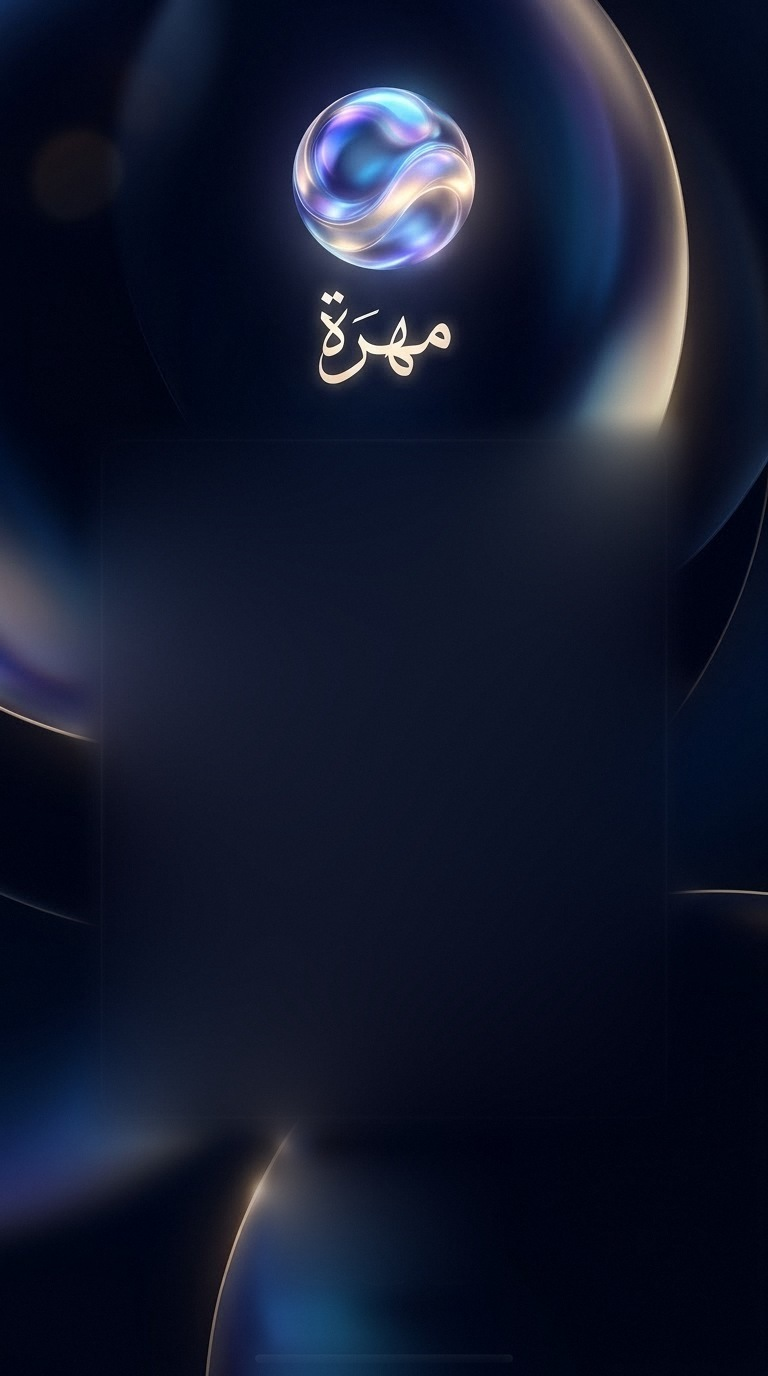
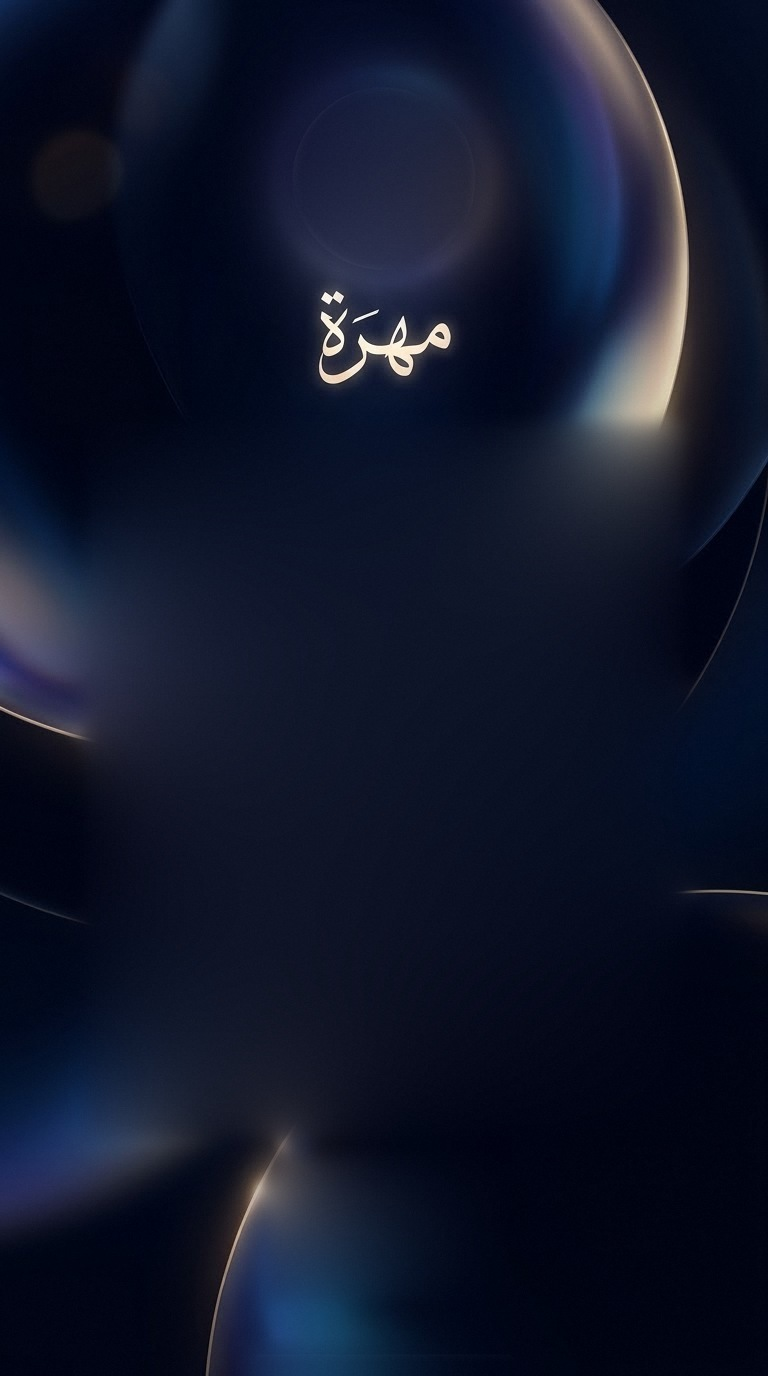
mahra customer login: spinning orb above the name, card lower, wide glowing pill buttons (fingerprint/Google/Apple)
Orb cut from the design image into its own transparent asset and erased from the background; reduced-motion respected.

Claude-Session: https://claude.ai/code/session_01TnTxrcnW4TWhmY2ibAxtsY

Changed region(s): [[0.375, 0.0625, 0.625, 0.2188]]

diff --git a/mahra/apps/customer/src/app/(auth)/login.tsx b/mahra/apps/customer/src/app/(auth)/login.tsx
@@ -1,8 +1,8 @@
 import { Ionicons } from '@expo/vector-icons';
 import * as LocalAuthentication from 'expo-local-authentication';
 import { LinearGradient } from 'expo-linear-gradient';
-import { useState } from 'react';
-import { Image, Platform, ScrollView, StyleSheet, TextInput, View, type LayoutChangeEvent } from 'react-native';
+import { useEffect, useState } from 'react';
+import { Animated, Easing, Image, Platform, ScrollView, StyleSheet, TextInput, View, type LayoutChangeEvent } from 'react-native';
 import { useSafeAreaInsets } from 'react-native-safe-area-context';
 import Svg, { Path } from 'react-native-svg';
 import { Glass } from '@/components/Glass';
@@ -11,6 +11,7 @@ import { Text } from '@/components/Text';
 import type { ComponentProps } from 'react';
 import { LANGS, useI18n } from '@/i18n';
 import { useAuth } from '@/lib/auth';
+import { useReducedMotion } from '@/lib/voice';
 import { fontStyle } from '@/theme/fonts';
 import { color, radius, space } from '@/theme/tokens';
 
@@ -18,11 +19,46 @@ import { color, radius, space } from '@/theme/tokens';
 const T = (props: ComponentProps<typeof Text>) => <Text font="kufi" {...props} />;
 
 const BG = require('../../../assets/ui/login-bg.jpg');
+/** الكرة مقصوصة من صورة التصميم (شفافة الحواف) وتدور فوق اسم «مهرة». مركزها وحجمها بإحداثيات الصورة. */
+const ORB = require('../../../assets/ui/login-orb.png');
+const ORB_CX = 384;
+const ORB_CY = 178;
+const ORB_SIZE = 212;
+const ND = Platform.OS !== 'web';
+
+/** دوران بطيء متصل (16 ثانية للدورة) مع تنفس خفيف؛ يتوقف مع «تقليل الحركة». */
+function SpinningOrb({ s }: { s: number }) {
+  const reduced = useReducedMotion();
+  const [spin] = useState(() => new Animated.Value(0));
+  const [breath] = useState(() => new Animated.Value(0));
+  useEffect(() => {
+    if (reduced) return;
+    const a = Animated.loop(Animated.timing(spin, { toValue: 1, duration: 16000, easing: Easing.linear, useNativeDriver: ND }));
+    const b = Animated.loop(Animated.sequence([
+      Animated.timing(breath, { toValue: 1, duration: 3200, easing: Easing.inOut(Easing.sin), useNativeDriver: ND }),
+      Animated.timing(breath, { toValue: 0, duration: 3200, easing: Easing.inOut(Easing.sin), useNativeDriver: ND }),
+    ]));
+    a.start();
+    b.start();
+    return () => { a.stop(); b.stop(); };
+  }, [spin, breath, reduced]);
+  const rotate = spin.interpolate({ inputRange: [0, 1], outputRange: ['0deg', '360deg'] });
+  const scale = breath.interpolate({ inputRange: [0, 1], outputRange: [1, 1.035] });
+  const size = ORB_SIZE * s;
+  return (
+    <Animated.Image
+      source={ORB}
+      accessibilityElementsHidden
+      importantForAccessibility="no-hide-descendants"
+      style={{ position: 'absolute', top: (ORB_CY - ORB_SIZE / 2) * s, left: (ORB_CX - ORB_SIZE / 2) * s, width: size, height: size, transform: [{ rotate }, { scale }] }}
+    />
+  );
+}
 /** أبعاد صورة التصميم المرجعية؛ كل المواضع تُحسب بنسبة العرض فتطابق أي شاشة. */
 const IMG_W = 768;
 const IMG_H = 1376;
 /** موضع البطاقة تحت اسم «مهرة» (ينتهي الاسم عند ~390 في صورة التصميم): مسافة مريحة بينهما. */
-const CARD_TOP = 500;
+const CARD_TOP = 545;
 /** حدود البطاقة الأصلية المحذوفة من الصورة (لتغطية موضعها) */
 const ERASED_TOP = 440;
 const ERASED_BOTTOM = 1118;
@@ -100,6 +136,7 @@ export default function Login() {
   return (
     <View style={styles.root} onLayout={onLayout}>
       <Image source={BG} style={{ position: 'absolute', top: 0, start: 0, width: w, height: IMG_H * s }} resizeMode="stretch" accessibilityElementsHidden importantForAccessibility="no-hide-descendants" />
+      <SpinningOrb s={s} />
       <LinearGradient colors={['rgba(6,9,19,0)', '#060913']} style={{ position: 'absolute', top: IMG_H * s - 240 * s, start: 0, end: 0, height: 240 * s }} pointerEvents="none" />
 
       <ScrollView contentContainerStyle={{ paddingTop: CARD_TOP * s, paddingBottom: 40 + insets.bottom, paddingHorizontal: CARD_SIDE * s }} keyboardShouldPersistTaps="handled" showsVerticalScrollIndicator={false}>
@@ -154,15 +191,21 @@ export default function Login() {
               <T variant="caption" weight="medium" style={{ fontSize: 16, lineHeight: 25 }}>{t('changeNumber')}</T>
             </Press>
           ) : (
-            <View style={styles.alt}>
+            <>
               <View style={styles.rule} />
-              <T variant="caption" tone="dim">{t('orSignUp')}</T>
-              <View style={styles.altRow}>
-                <Press onPress={biometric} accessibilityRole="button" accessibilityLabel={t('faceId')} style={styles.altBtn}><Ionicons name="finger-print-outline" size={26} color={color.goldBright} /></Press>
-                <Press onPress={() => setMsg({ tone: 'info', text: t('googleSoon') })} accessibilityRole="button" accessibilityLabel={t('google')} style={styles.altBtn}><GoogleG /></Press>
-                <Press onPress={() => setMsg({ tone: 'info', text: t('googleSoon') })} accessibilityRole="button" accessibilityLabel={t('apple')} style={styles.altBtn}><Ionicons name="logo-apple" size={26} color="#fff" /></Press>
-              </View>
-            </View>
+              <Press onPress={biometric} accessibilityRole="button" accessibilityLabel={t('faceId')} style={styles.pill}>
+                <Ionicons name="finger-print-outline" size={24} color={color.goldBright} />
+                <T variant="caption" weight="medium" style={{ fontSize: 16, lineHeight: 25 }}>{t('faceId')}</T>
+              </Press>
+              <Press onPress={() => setMsg({ tone: 'info', text: t('googleSoon') })} accessibilityRole="button" accessibilityLabel={t('google')} style={styles.pill}>
+                <GoogleG />
+                <T variant="caption" weight="medium" style={{ fontSize: 16, lineHeight: 25 }}>{t('google')}</T>
+              </Press>
+              <Press onPress={() => setMsg({ tone: 'info', text: t('googleSoon') })} accessibilityRole="button" accessibilityLabel={t('apple')} style={styles.pill}>
+                <Ionicons name="logo-apple" size={22} color="#fff" />
+                <T variant="caption" weight="medium" style={{ fontSize: 16, lineHeight: 25 }}>{t('apple')}</T>
+              </Press>
+            </>
           )}
         </Glass>
       </ScrollView>
@@ -199,7 +242,7 @@ const styles = StyleSheet.create({
   ctaWrap: { marginTop: space.xs },
   cta: { minHeight: 52, borderRadius: radius.pill, alignItems: 'center', justifyContent: 'center', borderWidth: 1, borderColor: 'rgba(255,255,255,0.7)', ...(Platform.OS === 'web' ? ({ boxShadow: '0 10px 28px rgba(110,140,255,0.40), 0 0 22px rgba(235,208,142,0.28), inset 0 1px 0 rgba(255,255,255,0.85)' } as object) : { shadowColor: '#8FA2F0', shadowOpacity: 0.5, shadowRadius: 16, shadowOffset: { width: 0, height: 8 } }) },
   rule: { alignSelf: 'stretch', height: 1, backgroundColor: 'rgba(255,255,255,0.14)', marginVertical: 2 },
-  pill: { alignSelf: 'stretch', minHeight: 48, flexDirection: 'row', alignItems: 'center', justifyContent: 'center', gap: space.sm, paddingHorizontal: space.xl, borderRadius: radius.pill, borderWidth: 1, borderColor: 'rgba(255,255,255,0.3)', backgroundColor: 'rgba(255,255,255,0.10)' },
+  pill: { alignSelf: 'stretch', minHeight: 48, flexDirection: 'row', alignItems: 'center', justifyContent: 'center', gap: space.sm, paddingHorizontal: space.xl, borderRadius: radius.pill, borderWidth: 1, borderColor: 'rgba(255,255,255,0.34)', borderTopColor: 'rgba(255,255,255,0.5)', backgroundColor: 'rgba(255,255,255,0.07)', ...(Platform.OS === 'web' ? ({ boxShadow: '0 0 16px rgba(170,195,255,0.18), inset 0 1px 0 rgba(255,255,255,0.28), inset 0 -8px 14px rgba(120,150,255,0.06)' } as object) : { shadowColor: '#AFC3FF', shadowOpacity: 0.28, shadowRadius: 10, shadowOffset: { width: 0, height: 0 } }) },
   alt: { alignSelf: 'stretch', alignItems: 'center', gap: space.sm },
   altRow: { flexDirection: 'row', gap: space.md },
   altBtn: { width: 54, height: 54, borderRadius: 16, alignItems: 'center', justifyContent: 'center', borderWidth: 1, borderColor: 'rgba(255,255,255,0.3)', backgroundColor: 'rgba(255,255,255,0.10)' },

diff --git a/mahra/MEMORY.md b/mahra/MEMORY.md
@@ -21,7 +21,7 @@
 - مهرة صوتها Veda (لم يُتحقق من وجوده بالـAPI) وتتحدث إماراتية. الوكلاء بلهجات: أردنية، لبنانية، سورية، مصرية، سعودية (لا مغاربية)، وراشد إماراتي.
 - الدخول: هاتف + واتساب إجباري، Google، Face ID. Apple بعد حساب Apple Developer.
 - **اللغات سبع:** عربي، إنجليزي، روسي، إسباني، فرنسي، صيني، هندي (كلها موجودة الآن في تطبيق العميل؛ المزود لم يُضف بعد؛ الترجمات أولية وتحتاج مترجماً أصلياً). العربية وحدها RTL. الخط (قرار المالك): **Noto Kufi Arabic للعربية دائماً**؛ غير العربية بنمط Apple: iOS = خط النظام (SF Pro)، أندرويد/ويب = Inter (يُقدَّم -apple-system أولاً على الويب)، هندي = Noto Sans Devanagari خارج iOS، صيني = خط النظام. letter-spacing صفر، عزل المقاطع اللاتينية بـ`lib/bidi.ts`. الملف: `customer/src/theme/fonts.ts`. تطبيق المزود ما زال بخطه القديم. العربية أولاً، لغة مهرة تتبع المتحدث. التغطية: كل الإمارات. الضريبة 5% في صفحة مخصصة (الوعاء بانتظار المحاسب).
-- **المرجع البصري المعتمد = صور Gemini الخمس** (تُستعمل أصولاً: خلفية الدخول `customer/assets/ui/login-bg.jpg` بعد إزالة نص البطاقة، وبقية الشاشات بالطريقة نفسها)؛ الشاشة المبنية حتى الآن: الدخول فقط (كما الصورة 16: عنوان «أهلاً بك في مهرة» + سطر فرعي + حقل هاتف برمز دولة + خانة واتساب + زر «تسجيل الدخول» + أسفلها بصمة وGoogle وApple؛ بلا كلمة مرور لأن الدخول برمز). أمر المالك: نفس الصور ونفس الخط، وأي صفحة جديدة بنفس التصميم.
+- **المرجع البصري المعتمد = صور Gemini الخمس** (تُستعمل أصولاً: خلفية الدخول `customer/assets/ui/login-bg.jpg` بعد إزالة نص البطاقة، وبقية الشاشات بالطريقة نفسها)؛ الشاشة المبنية حتى الآن: الدخول فقط (كما الصورة 16: عنوان «أهلاً بك في مهرة» + سطر فرعي + حقل هاتف برمز دولة + خانة واتساب + زر «تسجيل الدخول» + أسفلها بصمة وGoogle وApple؛ بلا كلمة مرور لأن الدخول برمز). الكرة العلوية صورة منفصلة `assets/ui/login-orb.png` تدور 16 ثانية (SpinningOrb) فوق اسم «مهرة» الثابت؛ الخلفية `login-bg.jpg` بلا الكرة ولا نص البطاقة. الأزرار الثانوية: كبسولات عريضة بتوهج. أمر المالك: نفس الصور ونفس الخط، وأي صفحة جديدة بنفس التصميم.
 - التصميم: **Spatial Glass** (visionOS): زجاج بحافة علوية لامعة، ثلاثة أضواء محيطية، لؤلؤة بحلقة صوتية، ألوان الوكلاء من Apple system colors. العميل داكن، المزود فاتح.
 
 ## تحذيرات تعلمناها
